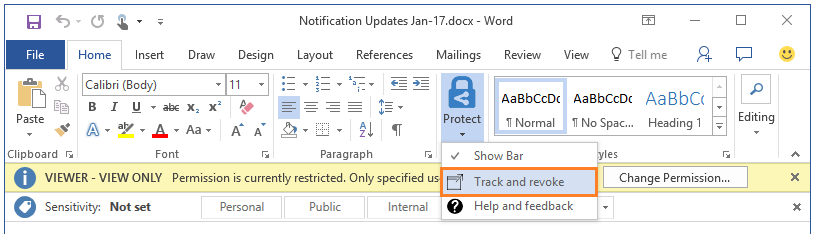
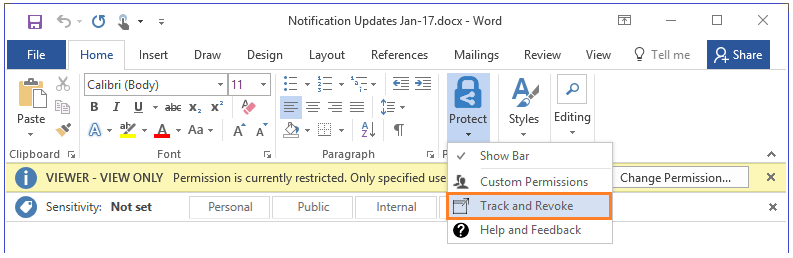
update screenshots for Protect menu options

diff --git a/Azure-RMSDocs/rms-client/client-track-revoke.md b/Azure-RMSDocs/rms-client/client-track-revoke.md
@@ -57,7 +57,7 @@ For the Office applications, Word, Excel, PowerPoint, and Outlook:
 
 1. Open the protected document that you want to track or revoke.
 
-2. On the **Home** tab, in the **Protection** group, click **Protect** > **Track and revoke**:
+2. On the **Home** tab, in the **Protection** group, click **Protect** > **Track and Revoke**:
 
     ![Track usage option](../media/track-usage-callout.png)
 

diff --git a/Azure-RMSDocs/get-started/infoprotect-tutorial-step5.md b/Azure-RMSDocs/get-started/infoprotect-tutorial-step5.md
@@ -99,7 +99,7 @@ Now that the recipient has opened the attachment and optionally, forwarded it to
 
     ![Information banner for custom protection](../media/information-banner-custom-protection.png)
 
-2.  On the **Home** tab, click **Protect** > **Track and revoke**:
+2.  On the **Home** tab, click **Protect** > **Track and Revoke**:
 
     ![Track usage option](../media/track-usage-callout.png)
 
